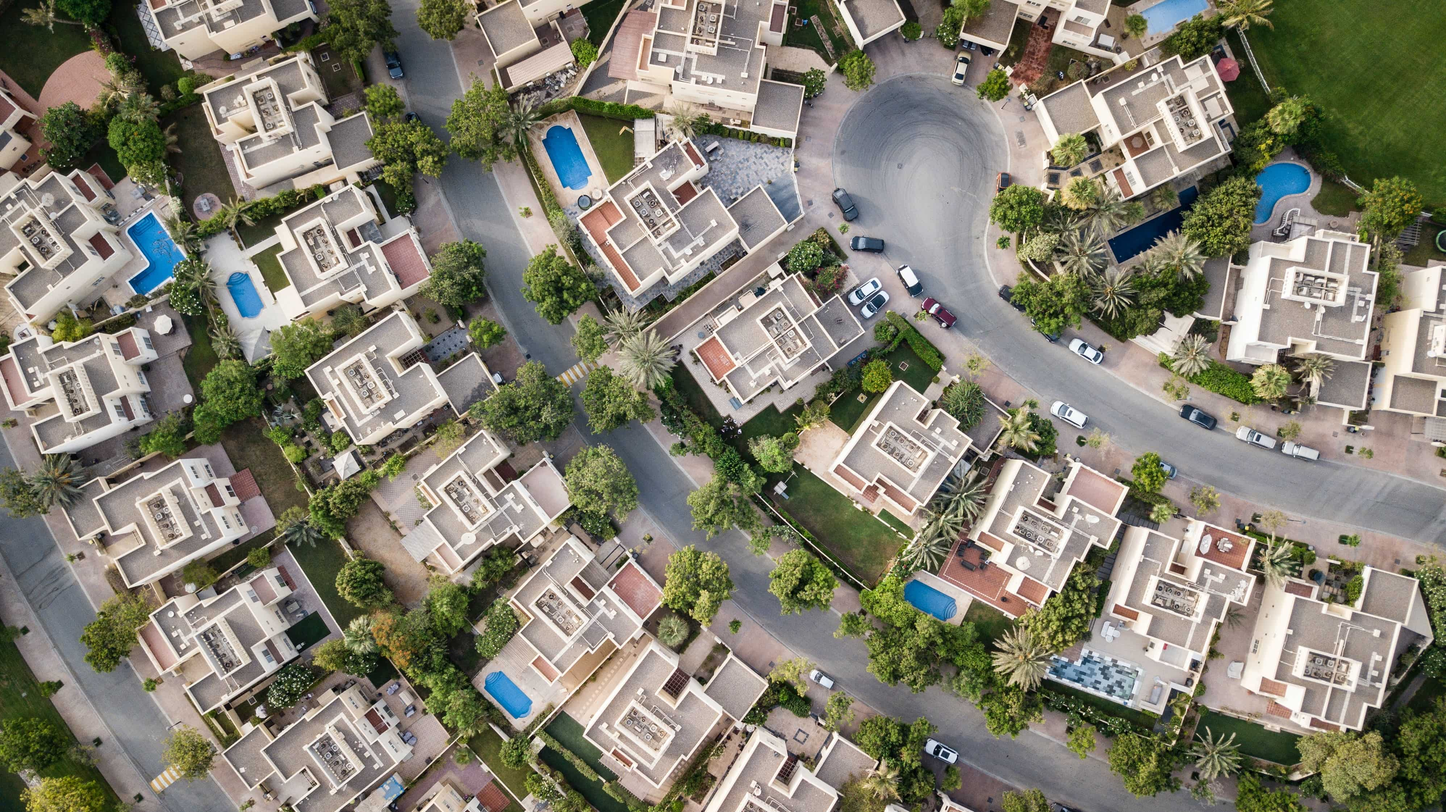
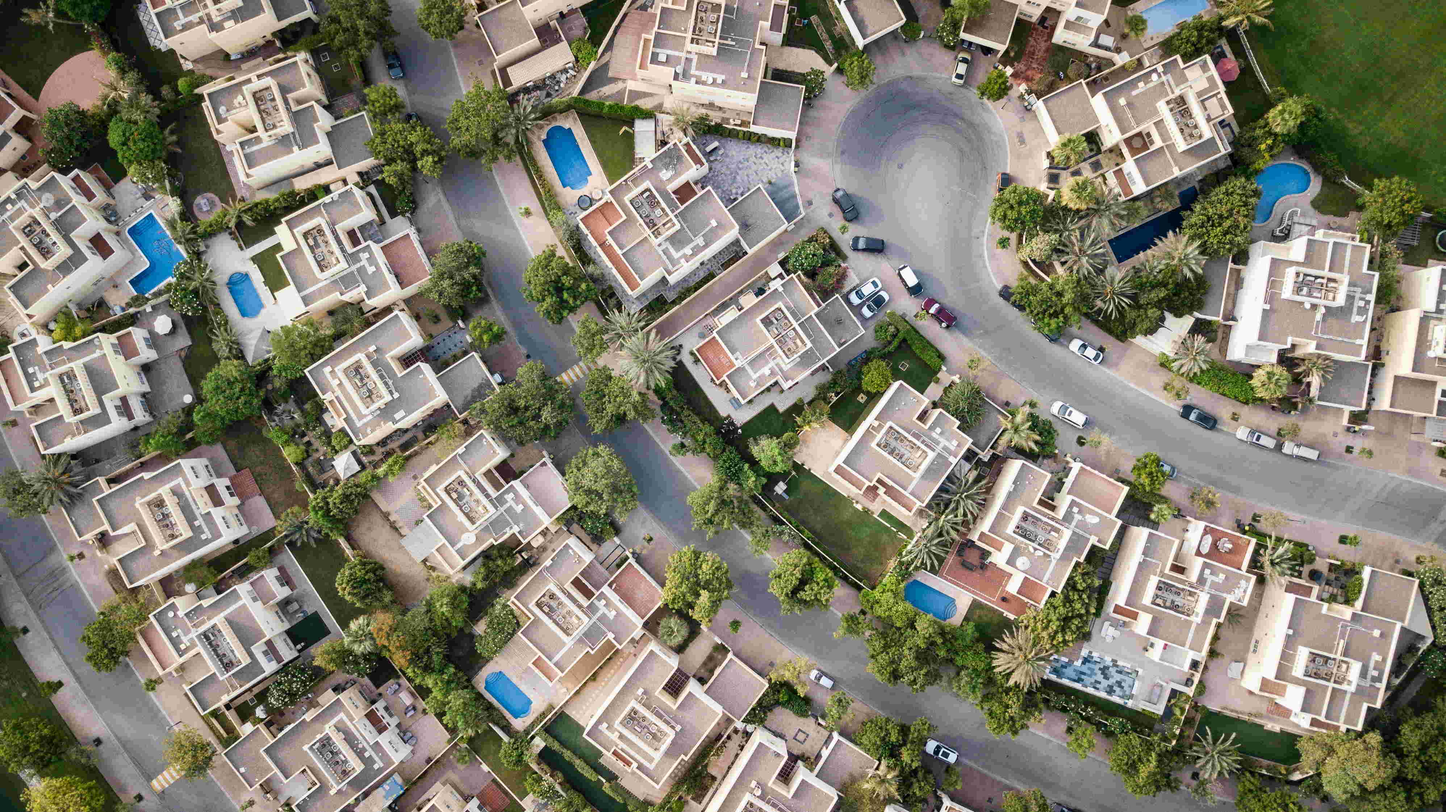
compressed welcome bg

diff --git a/app/assets/stylesheets/static_pages.scss b/app/assets/stylesheets/static_pages.scss
@@ -255,8 +255,10 @@ li:hover {
 
 .welcome-body {
     background-image: url("/assets/welcome_large");
-    max-width: 100%;
-    width: 100vw;
+    background-repeat: no-repeat;
+    background-size: cover;
+    background-attachment: scroll;
+    height: 100vh;
 }
 
 .welcome-div {
